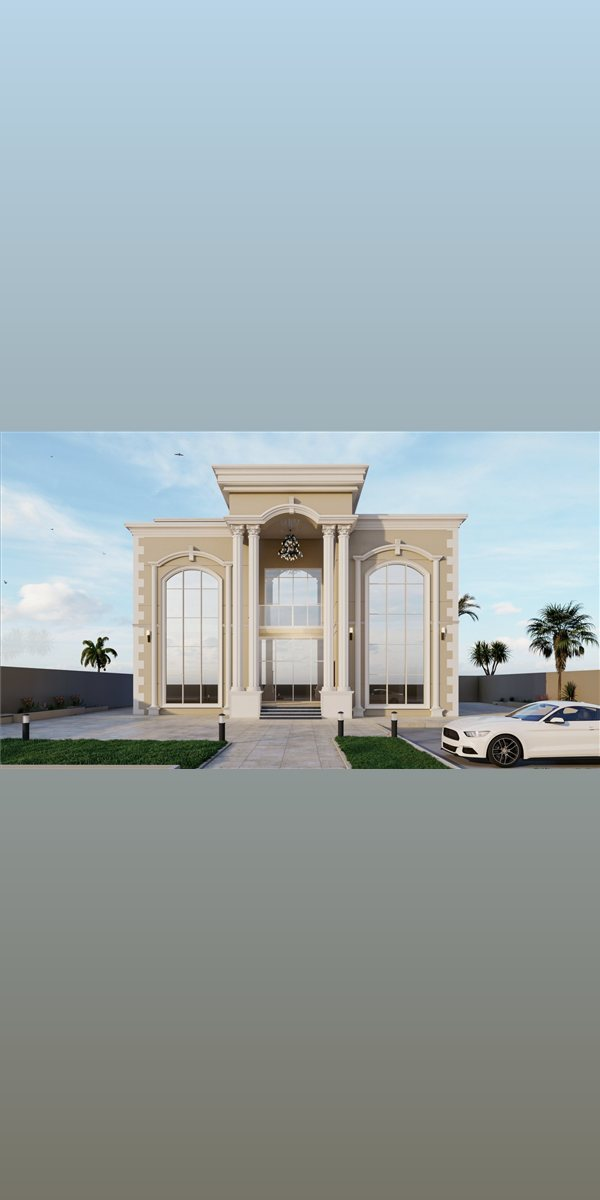
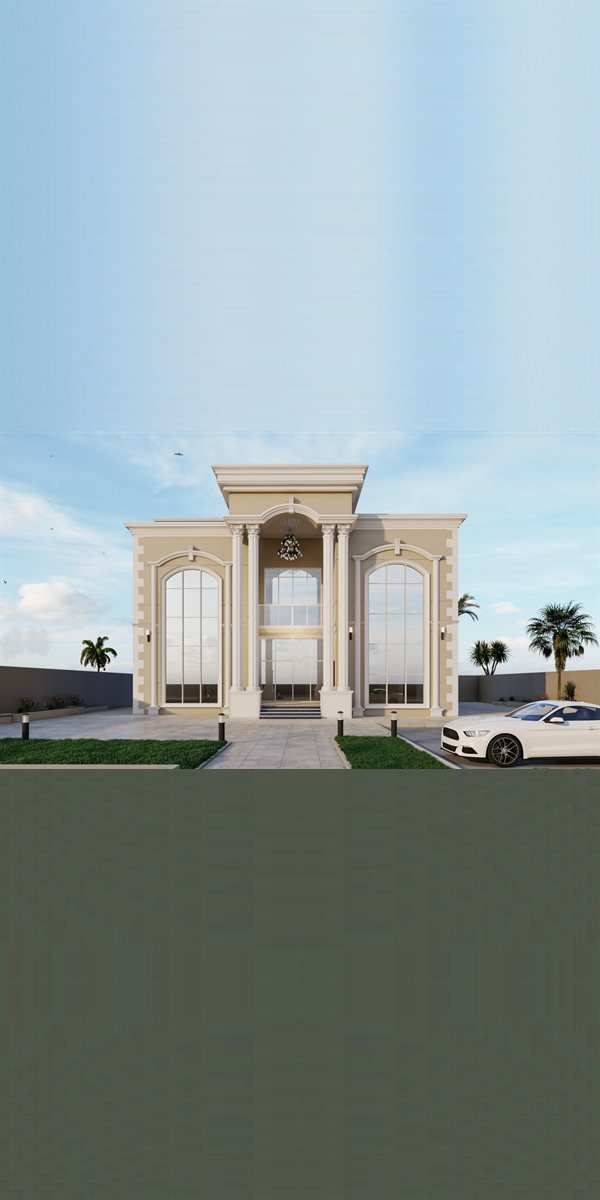
Extend mobile hero images with edge-row stretching, no blur
Restored picture/source wrapping with new portrait crops that
extend each source vertically using its own edge pixels (smoothed
horizontally) so the full building is visible under cover-fit with
natural-looking continuation above and below the image — no padding
seams, no blurred backdrop.

- sketch-mobile.jpg: wooden desk surface stretches naturally above
  and below the original sketch
- render-mobile.jpg: sky gradient continues above the building,
  ground softens into a matching ambient tone below

diff --git a/index.html b/index.html
@@ -1370,11 +1370,11 @@
     .hero-top, .hero-bottom { font-size: 8px; letter-spacing:0.15em; }
     .hero-top .meta-block.center { display: none; }
     /* Hero image strategy on mobile:
-       Full-bleed COVER — image fills the entire viewport, no blur, no letterbox.
-       Crop bias: keep the building (centered/lower-mid in frame) visible by pushing
-       the focal point slightly below center, which trims sky/headroom rather than
-       the structure itself. */
-    .stage-img { object-fit: cover !important; object-position: 50% 60%; }
+       Portrait extension — the source images are extended vertically with
+       their own edge pixels (sky stretched up / ground stretched down) so
+       the whole building shows under cover-fit with continuous, natural
+       surroundings. No padding, no blur, no visible frame. */
+    .stage-img { object-fit: cover !important; object-position: center; }
     /* Use dynamic viewport units so the URL bar doesn't create a gap */
     .hero-sticky{ height:100dvh; min-height:100vh; }
     .stage-backdrop{ display:none !important; }
